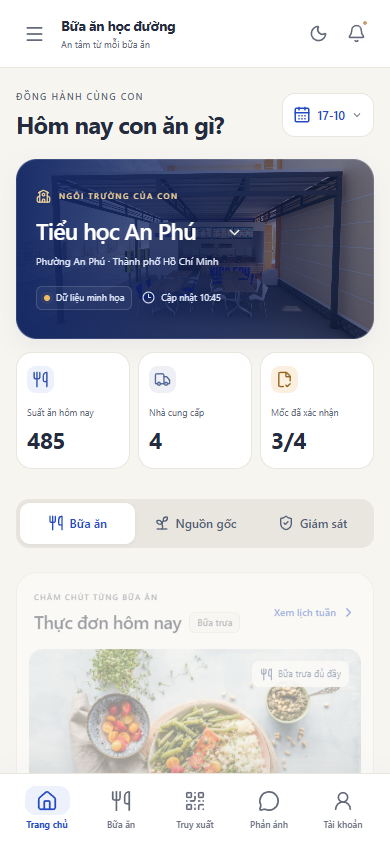
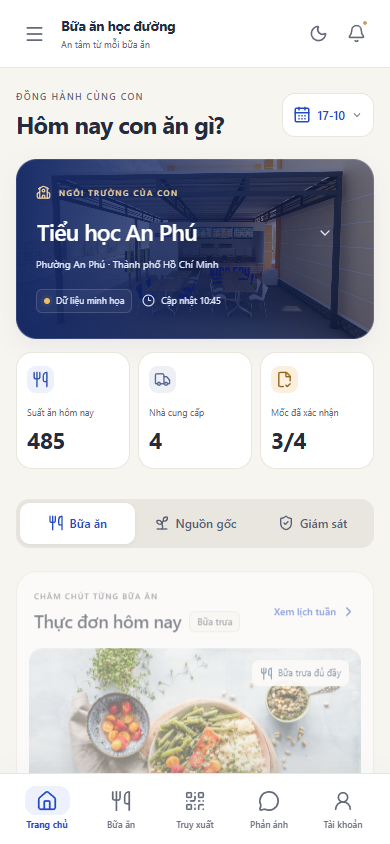
Initial commit: School Food Safety App

diff --git a/src/App.tsx b/src/App.tsx
@@ -5,7 +5,7 @@ import { QueryClient, QueryClientProvider, useMutation, useQuery, useQueryClient
 import { AnimatePresence, motion, useReducedMotion } from 'motion/react'
 import { Activity, ArrowRight, Bell, CalendarDays, Check, CheckCheck, ChevronDown, ChevronLeft, ChevronRight, CircleHelp, Clock3, CookingPot, FileCheck2, Heart, House, Leaf, LogIn, Menu, MessageCircle, MessageSquareText, Moon, QrCode, School as SchoolIcon, Search, Send, ShieldCheck, Sprout, Sun, Truck, Users, Utensils, X } from 'lucide-react'
 import type { LucideIcon } from 'lucide-react'
-import { useForm } from 'react-hook-form'
+import { Controller, useForm } from 'react-hook-form'
 import { zodResolver } from '@hookform/resolvers/zod'
 import { z } from 'zod'
 import { demoData, demo, schools as demoSchools } from './lib/data'
@@ -14,6 +14,7 @@ import { useUI } from './lib/store'
 import './App.css'
 import CanteenGallery from './CanteenGallery'
 import MobileNavigation from './MobileNavigation'
+import Select from './components/ui/Select'
 import CountUp from './components/react-bits/CountUp'
 import SpotlightCard from './components/react-bits/SpotlightCard'
 import ClickSpark from './components/react-bits/ClickSpark'
@@ -38,9 +39,9 @@ const feedbackSchema = z.object({kind:z.enum(['MENU_SUGGESTION','MEAL_QUALITY_RE
 type FeedbackInput = z.infer<typeof feedbackSchema>
 function FeedbackForm({ school, kind, close }: {school:School;kind:string;close:()=>void}) {
   const cache = useQueryClient(); const [result,setResult] = useState<Feedback | null>(null)
-  const {register,handleSubmit,formState:{errors}} = useForm<FeedbackInput>({resolver:zodResolver(feedbackSchema),defaultValues:{kind:kind === 'MENU_SUGGESTION' ? 'MENU_SUGGESTION':'MEAL_QUALITY_REPORT',content:''}})
+  const {register,control,handleSubmit,formState:{errors}} = useForm<FeedbackInput>({resolver:zodResolver(feedbackSchema),defaultValues:{kind:kind === 'MENU_SUGGESTION' ? 'MENU_SUGGESTION':'MEAL_QUALITY_REPORT',content:''}})
   const send = useMutation({mutationFn:(values:FeedbackInput)=>demoData.sendFeedback({...values,schoolId:school.id}),onSuccess:item=>{setResult(item);void cache.invalidateQueries({queryKey:['feedback']})}})
-  return <Dialog title={result ? 'Đã ghi nhận ý kiến của bạn' : 'Cùng xây dựng bữa ăn tốt hơn'} close={close}>{result ? <div className="success-state"><span className="success-icon"><Check/></span><p>{demo ? 'Đã lưu vào trình duyệt DEMO, chưa gửi đến nhà trường.' : 'Nhà trường đã tiếp nhận hồ sơ của bạn.'}</p><div className="case-code">{result.id}</div><p className="muted">Bạn có thể xem lại tại Phản ánh & góp ý.</p><button className="primary" onClick={close}>Hoàn tất</button></div> : <form onSubmit={handleSubmit(values=>send.mutate(values))}><p className="form-context"><SchoolIcon size={17}/>{school.name}</p><label>Loại ý kiến<select {...register('kind')}><option value="MEAL_QUALITY_REPORT">Phản ánh chất lượng bữa ăn</option><option value="MENU_SUGGESTION">Góp ý thực đơn</option></select></label><label>Nội dung<textarea rows={5} placeholder="Chia sẻ cụ thể để nhà trường có thể hỗ trợ bạn…" {...register('content')}/></label>{errors.content && <p className="error">{errors.content.message}</p>}<div className="privacy"><ShieldCheck size={18}/><p>Ý kiến được tiếp nhận riêng tư. Không nhập thông tin cá nhân của học sinh vào nội dung.</p></div>{demo && <p className="demo-note">DEMO · Hồ sơ chỉ lưu trên trình duyệt này, không gửi thông báo thật.</p>}{send.error && <p role="alert" className="error">{send.error.message}</p>}<button className="primary full" disabled={send.isPending}><Send size={16}/>{send.isPending ? 'Đang gửi…' : 'Gửi ý kiến'}</button></form>}</Dialog>
+  return <Dialog title={result ? 'Đã ghi nhận ý kiến của bạn' : 'Cùng xây dựng bữa ăn tốt hơn'} close={close}>{result ? <div className="success-state"><span className="success-icon"><Check/></span><p>{demo ? 'Đã lưu vào trình duyệt DEMO, chưa gửi đến nhà trường.' : 'Nhà trường đã tiếp nhận hồ sơ của bạn.'}</p><div className="case-code">{result.id}</div><p className="muted">Bạn có thể xem lại tại Phản ánh & góp ý.</p><button className="primary" onClick={close}>Hoàn tất</button></div> : <form onSubmit={handleSubmit(values=>send.mutate(values))}><p className="form-context"><SchoolIcon size={17}/>{school.name}</p><div className="select-field"><span>Loại ý kiến</span><Controller control={control} name="kind" render={({field})=><Select label="Loại ý kiến" value={field.value} onValueChange={field.onChange} onBlur={field.onBlur} options={[{value:'MEAL_QUALITY_REPORT',label:'Phản ánh chất lượng bữa ăn'},{value:'MENU_SUGGESTION',label:'Góp ý thực đơn'}]}/>}/></div><label>Nội dung<textarea rows={5} placeholder="Chia sẻ cụ thể để nhà trường có thể hỗ trợ bạn…" {...register('content')}/></label>{errors.content && <p className="error">{errors.content.message}</p>}<div className="privacy"><ShieldCheck size={18}/><p>Ý kiến được tiếp nhận riêng tư. Không nhập thông tin cá nhân của học sinh vào nội dung.</p></div>{demo && <p className="demo-note">DEMO · Hồ sơ chỉ lưu trên trình duyệt này, không gửi thông báo thật.</p>}{send.error && <p role="alert" className="error">{send.error.message}</p>}<button className="primary full" disabled={send.isPending}><Send size={16}/>{send.isPending ? 'Đang gửi…' : 'Gửi ý kiến'}</button></form>}</Dialog>
 }
 function Login({close}:{close:()=>void}) {
  const setRole=useUI(s=>s.setRole);const navigate=useNavigate();const cache=useQueryClient()
@@ -64,11 +65,11 @@ function Shell() {
  <aside className={`sidebar ${drawer?'open':''}`}><NavLink to="/" className="brand"><span className="brand-symbol"><Sprout size={26}/></span><span>Bữa ăn học đường<small>AN TÂM TỪ MỖI BỮA ĂN</small></span></NavLink><div className="workspace"><span className="workspace-icon"><Users size={19}/></span><div>{role==='parent'?'Không gian phụ huynh':roleLabels[role]}<small>{role==='parent'?'Đồng hành cùng nhà trường':'Không gian làm việc DEMO'}</small></div><span className="small-dot"/></div><p className="nav-label">KHÁM PHÁ</p><nav>{nav.map(item=><NavLink end={item.path==='/'} to={item.path} key={item.path}><item.icon size={19}/><span>{item.label}</span>{item.path==='/phan-anh'&&<span className="nav-dot"/>}</NavLink>)}</nav><div className="sidebar-bottom"><div className="trust-note"><span><ShieldCheck size={23}/></span><strong>Minh bạch mỗi ngày.<br/>An tâm mỗi bữa ăn.</strong><p>Kết nối gia đình, nhà trường<br/>và những bữa ăn của con.</p><button onClick={()=>setModal('about')}>Tìm hiểu hệ thống <ArrowRight size={14}/></button></div><button className="sidebar-link" onClick={()=>setModal('help')}><CircleHelp size={18}/>Trung tâm hỗ trợ<ArrowRight size={15}/></button><button className="profile" onClick={()=>setModal('login')}><span className="avatar">PH</span><span>{roleLabels[role]}<small>Chuyển không gian DEMO</small></span><LogIn size={17}/></button></div></aside>
  <div className="main-wrap"><header className="topbar"><div className="breadcrumb"><button className="icon-button mobile-menu" aria-label="Mở menu" onClick={()=>setDrawer(true)}><Menu/></button><span>{role==='parent'?'Không gian phụ huynh':roleLabels[role]}</span><ChevronRight size={13}/><strong>{current.label}</strong></div><div className="mobile-app-brand"><span><Sprout size={21}/></span><div>Bữa ăn học đường<small>{role==='parent'?'An tâm từ mỗi bữa ăn':roleLabels[role]}</small></div></div><div className="top-actions">{demo&&<span className="demo-pill">BẢN DEMO</span>}<button aria-label="Tìm kiếm trường" className="icon-button" onClick={()=>setModal('search')}><Search size={19}/></button><button className="icon-button" aria-label={dark?'Bật giao diện sáng':'Bật giao diện tối'} onClick={()=>setDark(!dark)}>{dark?<Sun size={19}/>:<Moon size={19}/>}</button><button className="icon-button notification-button" aria-label="Thông báo" onClick={()=>setModal('notifications')}><Bell size={19}/><i/></button><span className="top-divider"/><button className="avatar small" aria-label="Chuyển không gian làm việc" onClick={()=>setModal('login')}>PH</button></div></header>
  <main id="main"><div className="mobile-greeting"><div><span>{location.pathname==='/'?(role==='parent'?'ĐỒNG HÀNH CÙNG CON':roleLabels[role].toUpperCase()):'BỮA ĂN HỌC ĐƯỜNG'}</span><h2>{location.pathname==='/'?(role==='parent'?'Hôm nay con ăn gì?':'Một ngày thật chu toàn.'):current.label}</h2></div><button className="mobile-date-button" aria-label="Chọn ngày theo dõi" onClick={()=>setModal('date')}><CalendarDays size={18}/><span>{new Date(date+'T12:00:00').toLocaleDateString('vi-VN',{day:'2-digit',month:'2-digit'})}</span><ChevronDown size={12}/></button></div><div className="page-heading"><div><div className="eyebrow"><span/> GẮN KẾT YÊU THƯƠNG, TRỌN VẸN AN TÂM</div><h1>{location.pathname==='/'?(role==='parent'?'Bữa ăn của con, an tâm của bạn.':role==='school_board'?'Chăm chút bữa ăn, mỗi ngày.':role==='central_kitchen'?'Từ căn bếp, gửi trọn an tâm.':'Một góc nhìn, toàn địa bàn.'):current.label}</h1><p>{role!=='parent'?'Theo dõi, phối hợp và quản lý hoạt động bữa ăn trong không gian minh họa.':location.pathname==='/'?'Cùng nhà trường chăm chút từng bữa ăn, đồng hành cùng con khôn lớn.':'Thông tin minh bạch, cập nhật từ nhà trường và đơn vị phụ trách.'}</p></div><button className="outline date-display" onClick={()=>setModal('date')}><CalendarDays size={16}/>{new Date(`${date}T12:00:00`).toLocaleDateString('vi-VN',{day:'2-digit',month:'2-digit',year:'numeric'})}<ChevronDown size={14}/></button></div>
- <SpotlightCard className="school-hero" spotlightColor="#e4bc70" intensity={0.3} spotlightSize={300} borderGlow={0.35} proximity={0} flare={false} theme="dark"><div className="hero-content"><span className="hero-eyebrow"><SchoolIcon size={15}/> NGÔI TRƯỜNG CỦA CON</span><div className="school-picker"><select aria-label="Chọn trường" value={school.id} onChange={e=>setSchool(e.target.value)}>{(schoolQuery.data ?? (demo ? demoSchools : [])).map(s=><option key={s.id} value={s.id}>{s.name}</option>)}</select><ChevronDown size={21}/></div><p className="hero-address">{school.address}</p><div className="hero-bottom"><span><span className="live-dot"/>{demo?'Dữ liệu minh họa':'Thông tin công khai'}</span><span className="hero-separator"/><span><Clock3 size={13}/> Cập nhật {data?.updatedAt ?? '—'}</span></div></div><div className="hero-art" aria-hidden="true"><div className="orbit orbit-one"/><div className="orbit orbit-two"/><div className="plate"><div className="plate-inner"><Sprout size={59} strokeWidth={1.25}/></div></div><Utensils className="hero-utensils" size={80} strokeWidth={1}/><Leaf className="leaf-one" size={42} strokeWidth={1}/><Leaf className="leaf-two" size={24} strokeWidth={1}/><span className="hero-caption">Nuôi dưỡng hôm nay<br/><strong>Vững bước ngày mai.</strong></span></div></SpotlightCard>
+ <SpotlightCard className="school-hero" spotlightColor="#e4bc70" intensity={0.3} spotlightSize={300} borderGlow={0.35} proximity={0} flare={false} theme="dark"><div className="hero-content"><span className="hero-eyebrow"><SchoolIcon size={15}/> NGÔI TRƯỜNG CỦA CON</span><div className="school-picker"><Select label="Chọn trường" variant="hero" value={school.id} onValueChange={setSchool} options={(schoolQuery.data??demoSchools).map(s=>({value:s.id,label:s.name,description:s.address}))}/></div><p className="hero-address">{school.address}</p><div className="hero-bottom"><span><span className="live-dot"/>{demo?'Dữ liệu minh họa':'Thông tin công khai'}</span><span className="hero-separator"/><span><Clock3 size={13}/> Cập nhật {data?.updatedAt ?? '—'}</span></div></div><div className="hero-art" aria-hidden="true"><div className="orbit orbit-one"/><div className="orbit orbit-two"/><div className="plate"><div className="plate-inner"><Sprout size={59} strokeWidth={1.25}/></div></div><Utensils className="hero-utensils" size={80} strokeWidth={1}/><Leaf className="leaf-one" size={42} strokeWidth={1}/><Leaf className="leaf-two" size={24} strokeWidth={1}/><span className="hero-caption">Nuôi dưỡng hôm nay<br/><strong>Vững bước ngày mai.</strong></span></div></SpotlightCard>
  {role!=='parent'?<Suspense fallback={<div className="loading-grid"><div className="skeleton"/></div>}><AdminPanel school={school}/></Suspense>:schoolQuery.isError||query.isError?<div className="error-panel" role="alert"><strong>Chưa tải được thông tin</strong><p>{(schoolQuery.error??query.error)?.message}</p><button className="outline" onClick={()=>{void schoolQuery.refetch();void query.refetch()}}>Thử lại</button></div>:<>
  <ClickSpark className="rb-stats-sparks" sparkColor={['#5479df','#d89a30']} sparkSize={5} sparkRadius={18} sparkCount={6} duration={300} sparkWidth={1.4} disabled={!!reducedMotion}><div className="stats-grid">{[{icon:Utensils,value:data?.servings,label:'Suất ăn hôm nay',note:'Theo kế hoạch nhà trường',color:'green'},{icon:Truck,value:data?.suppliers,label:'Nhà cung cấp',note:'Liên kết trong bữa ăn',color:'blue'},{icon:FileCheck2,value:data?`${data.events.filter(e=>e.confirmed).length}/${data.events.length}`:undefined,label:'Mốc đã xác nhận',note:'Theo quy trình cung cấp',color:'orange'}].map((s,i)=><button className="stat" key={s.label} onClick={()=>navigate(['/bua-an','/nguon-goc','/giam-sat'][i]!)}><span className={`stat-icon ${s.color}`}><s.icon size={23}/></span><div><span className="stat-label">{s.label}</span><div className="stat-value">{typeof s.value==='number'?<CountUp to={s.value} duration={0.65} trigger="load"/>:s.value??<span className="skeleton stat-skeleton"/>}<span className="stat-note">{s.note}</span></div></div><ArrowRight size={16} className="stat-arrow"/></button>)}</div></ClickSpark>
  <div className="section-toolbar"><div className="segmented">{[{path:'/bua-an',label:'Bữa ăn',icon:Utensils},{path:'/nguon-goc',label:'Nguồn gốc',icon:Sprout},{path:'/giam-sat',label:'Giám sát',icon:ShieldCheck}].map(t=><NavLink to={t.path} key={t.path} className={({isActive})=>(isActive||(location.pathname==='/'&&t.path==='/bua-an'))?'selected':''}><t.icon size={16}/>{t.label}</NavLink>)}</div><span className="updated"><span/> {demo?'Dữ liệu minh họa · Không dùng thay kết quả chính thức':'Được cập nhật bởi nhà trường'}</span></div>
- {query.isLoading||!data?<div className="loading-grid" aria-label="Đang tải dữ liệu"><div className="skeleton"/><div className="skeleton"/></div>:<AnimatePresence mode="wait"><motion.div key={location.pathname} initial={reducedMotion?false:{opacity:0,y:7}} animate={{opacity:1,y:0}} exit={{opacity:0}} transition={{duration:reducedMotion?0:.18}}>
+ {query.isLoading||!data?<div className="loading-grid" role="status" aria-label="Đang tải dữ liệu"><div className="skeleton"/><div className="skeleton"/></div>:<AnimatePresence mode="wait"><motion.div key={location.pathname} initial={reducedMotion?false:{opacity:0,y:7}} animate={{opacity:1,y:0}} exit={{opacity:0}} transition={{duration:reducedMotion?0:.18}}>
  {(location.pathname==='/'||location.pathname==='/bua-an')&&<>{location.pathname==='/bua-an'&&<section className="week-picker"><button className="icon-button" aria-label="Tuần trước" onClick={()=>changeWeek(-7)}><ChevronLeft/></button>{week.map((d,i)=><button className={d===date?'chosen':''} onClick={()=>setDate(d)} key={d}><small>{i===6?'CN':`Thứ ${i+2}`}</small><strong>{d.slice(8)}</strong></button>)}<button className="icon-button" aria-label="Tuần sau" onClick={()=>changeWeek(7)}><ChevronRight/></button></section>}
  <div className="content-grid"><section className="card meal-card"><div className="card-header"><div><div className="section-kicker">CHĂM CHÚT TỪNG BỮA ĂN</div><h2>Thực đơn hôm nay <span className="meal-pill">Bữa trưa</span></h2></div><button className="text-button" onClick={()=>location.pathname==='/bua-an'?setModal('date'):navigate('/bua-an')}>Xem lịch tuần <ChevronRight size={15}/></button></div><button className="meal-photo" aria-label="Xem ảnh minh họa bữa ăn" onClick={()=>setModal('photo')}><img src={data.photo} alt="Ảnh minh họa món ăn với rau củ tươi"/><span className="photo-demo"><span/>Ảnh minh họa · Không phải ảnh báo cáo thực tế</span><span className="photo-tag"><Utensils size={13}/> Bữa trưa đủ đầy</span></button><div className="meal-body"><div className="meal-summary"><div><span className="muted small-text">THỰC ĐƠN DỰ KIẾN</span><h3>Ngon miệng, trọn yêu thương</h3></div><Badge amber>Đã báo cáo</Badge></div><div className="dish-list">{data.dishes.map((dish,i)=><div key={dish}><span className={`dish-dot dish-${i}`}/>{dish}</div>)}</div><div className="meal-meta"><span><Clock3 size={15}/>Phục vụ dự kiến <strong>11:00</strong></span><span><CookingPot size={15}/>{school.mode==='CENTRAL_KITCHEN'?'Bếp trung tâm':'Nấu tại trường'}</span></div><div className="meal-footer"><span><ShieldCheck size={16}/>Dinh dưỡng chưa được xác minh</span><button className="text-button" onClick={()=>setModal('meal')}>Chi tiết bữa ăn <ArrowRight size={15}/></button></div></div></section>
  <section className="card journey-card"><div className="card-header"><div><div className="section-kicker">MINH BẠCH TỪ BẾP ĐẾN TRƯỜNG</div><h2>Hành trình bữa ăn</h2></div><span className="round-icon"><Activity size={19}/></span></div><div className="journey-summary"><span className="live-dot"/><div><strong>{data.events.at(-1)?.label ?? 'Đang chuẩn bị'}</strong><p>{!data.events.length?'Chưa có mốc được ghi nhận':data.events.at(-1)?.confirmed?'Mốc gần nhất đã xác nhận':'Đã báo cáo · Chờ BGH xác nhận'}</p></div><Clock3 size={20}/></div><Timeline data={data} compact/><div className="journey-footer"><ShieldCheck size={17}/><p>Mỗi bước ghi nhận, thêm một phần an tâm.<br/><span>Trạng thái quy trình không thay kết luận ATTP.</span></p></div><button className="wide-link" onClick={()=>navigate('/giam-sat')}>Xem toàn bộ nhật ký <ArrowRight size={16}/></button></section></div>

diff --git a/src/Admin.tsx b/src/Admin.tsx
@@ -9,6 +9,7 @@ import { useUI } from './lib/store'
 import type { ViewRole } from './lib/store'
 import type { School } from './lib/data'
 import './Admin.css'
+import Select from './components/ui/Select'
 import CountUp from './components/react-bits/CountUp'
 
 type LocalEvent={status:string;time:string;photos:string[];confirmed:boolean;note:string}
@@ -34,7 +35,7 @@ export default function AdminPanel({school}:{school:School}){
  const advance=(note:string)=>{if(!canAdvance||!nextStatus)return;if(!photos.length){setError('Chọn ít nhất một ảnh minh họa riêng cho mốc này.');return}if(photos.some(p=>selected.events.some(e=>e.photos.includes(p)))){setError('Ảnh này đã dùng cho mốc khác. Vui lòng chọn ảnh khác.');return}const next={...selected,status:nextStatus,events:[...selected.events,{status:nextStatus,time:new Date().toLocaleTimeString('vi-VN',{hour:'2-digit',minute:'2-digit'}),photos,confirmed:false,note}]};if(saveMeal(next)){setDialog(null);setPhotos([]);setNotice('Đã ghi nhận mốc vận hành trên trình duyệt DEMO.')}}
  const overview=!['/thuc-don','/ho-so','/van-hanh','/phan-anh','/bao-cao'].includes(path)
  return <div className="admin-area"><div className="admin-context"><span><span className="live-dot"/>KHÔNG GIAN {roleNames[role].toUpperCase()}</span><small>Frontend DEMO · Thao tác chỉ lưu trên trình duyệt</small></div>{notice&&<div className="local-toast" role="status"><Check size={16}/>{notice}<button aria-label="Đóng thông báo" onClick={()=>setNotice('')}><X size={15}/></button></div>}
- {(overview||path==='/bao-cao')&&<><div className="admin-stats">{[{icon:SchoolIcon,value:scoped.length,label:'Trường trong chế độ xem'},{icon:Utensils,value:scoped.reduce((n,m)=>n+m.servings,0),label:'Suất ăn dự kiến'},{icon:Clock3,value:scoped.filter(m=>m.status!=='READY').length,label:'Bữa ăn đang triển khai'},{icon:Users,value:feedback.data?.length??0,label:'Ý kiến đã lưu trên máy'}].map(k=><div className="card admin-stat" key={k.label}><k.icon size={21}/><strong><CountUp to={k.value} duration={0.65}/></strong><span>{k.label}</span></div>)}</div><section className="card"><div className="card-header"><div><div className="section-kicker">ĐỒNG HÀNH CÙNG CÁC NHÀ TRƯỜNG</div><h2>{role==='school_board'?'Hoạt động trường hôm nay':'Tổng quan cung cấp suất ăn'}</h2></div><button className="outline" onClick={exportReport}><ArrowDownToLine size={16}/>Xuất CSV</button></div><div className="table-filters"><label className="table-search"><Search size={16}/><input aria-label="Tìm trường trong danh sách" placeholder="Tìm trường học…" value={search} onChange={e=>setSearch(e.target.value)}/></label><select aria-label="Lọc trạng thái suất ăn" value={status} onChange={e=>setStatus(e.target.value)}><option value="all">Tất cả trạng thái</option>{Object.entries(statusNames).map(([key,name])=><option value={key} key={key}>{name}</option>)}</select></div><div className="table-scroll"><table><thead><tr><th>Trường học</th><th>Hình thức</th><th>Số suất</th><th>Trạng thái</th><th>Chi tiết</th></tr></thead><tbody>{filtered.map(m=><tr key={m.schoolId}><td><strong>{schools.find(s=>s.id===m.schoolId)!.name}</strong><small>{date}</small></td><td>{schools.find(s=>s.id===m.schoolId)!.mode==='ON_SITE'?'Nấu tại trường':'Bếp trung tâm'}</td><td>{m.servings}</td><td><span className="admin-status">{statusNames[m.status]}</span></td><td><button className="icon-button" aria-label={`Xem ${schools.find(s=>s.id===m.schoolId)!.name}`} onClick={()=>{useUI.getState().setSchool(m.schoolId);setDialog('overview-detail')}}><ArrowRight size={17}/></button></td></tr>)}</tbody></table>{!filtered.length&&<div className="empty-state"><Search/><h3>Không có kết quả phù hợp</h3><p>Thử thay đổi từ khóa hoặc bộ lọc trạng thái.</p></div>}</div><div className="table-note"><AlertCircle size={15}/>Các chỉ số tính từ dữ liệu DEMO đang có trên trình duyệt.</div></section><div className="admin-info-grid"><section className="card admin-note"><FileCheck2 size={25}/><h3>Hồ sơ rõ ràng, thông tin minh bạch</h3><p>Giấy tờ được ghi nhận riêng với trạng thái xác minh. Bản frontend không đánh giá giá trị pháp lý của hồ sơ.</p></section><section className="card admin-note"><Truck size={25}/><h3>Đúng tiến trình từng bữa ăn</h3><p>Luồng nấu tại trường và bếp trung tâm được tách riêng. Mỗi mốc có ảnh và thông tin người báo cáo.</p></section></div></>}
+ {(overview||path==='/bao-cao')&&<><div className="admin-stats">{[{icon:SchoolIcon,value:scoped.length,label:'Trường trong chế độ xem'},{icon:Utensils,value:scoped.reduce((n,m)=>n+m.servings,0),label:'Suất ăn dự kiến'},{icon:Clock3,value:scoped.filter(m=>m.status!=='READY').length,label:'Bữa ăn đang triển khai'},{icon:Users,value:feedback.data?.length??0,label:'Ý kiến đã lưu trên máy'}].map(k=><div className="card admin-stat" key={k.label}><k.icon size={21}/><strong><CountUp to={k.value} duration={0.65}/></strong><span>{k.label}</span></div>)}</div><section className="card"><div className="card-header"><div><div className="section-kicker">ĐỒNG HÀNH CÙNG CÁC NHÀ TRƯỜNG</div><h2>{role==='school_board'?'Hoạt động trường hôm nay':'Tổng quan cung cấp suất ăn'}</h2></div><button className="outline" onClick={exportReport}><ArrowDownToLine size={16}/>Xuất CSV</button></div><div className="table-filters"><label className="table-search"><Search size={16}/><input aria-label="Tìm trường trong danh sách" placeholder="Tìm trường học…" value={search} onChange={e=>setSearch(e.target.value)}/></label><Select label="Lọc trạng thái suất ăn" value={status} onValueChange={setStatus} options={[{value:'all',label:'Tất cả trạng thái'},...Object.entries(statusNames).map(([value,label])=>({value,label}))]}/></div><div className="table-scroll"><table><thead><tr><th>Trường học</th><th>Hình thức</th><th>Số suất</th><th>Trạng thái</th><th>Chi tiết</th></tr></thead><tbody>{filtered.map(m=><tr key={m.schoolId}><td><strong>{schools.find(s=>s.id===m.schoolId)!.name}</strong><small>{date}</small></td><td>{schools.find(s=>s.id===m.schoolId)!.mode==='ON_SITE'?'Nấu tại trường':'Bếp trung tâm'}</td><td>{m.servings}</td><td><span className="admin-status">{statusNames[m.status]}</span></td><td><button className="icon-button" aria-label={`Xem ${schools.find(s=>s.id===m.schoolId)!.name}`} onClick={()=>{useUI.getState().setSchool(m.schoolId);setDialog('overview-detail')}}><ArrowRight size={17}/></button></td></tr>)}</tbody></table>{!filtered.length&&<div className="empty-state"><Search/><h3>Không có kết quả phù hợp</h3><p>Thử thay đổi từ khóa hoặc bộ lọc trạng thái.</p></div>}</div><div className="table-note"><AlertCircle size={15}/>Các chỉ số tính từ dữ liệu DEMO đang có trên trình duyệt.</div></section><div className="admin-info-grid"><section className="card admin-note"><FileCheck2 size={25}/><h3>Hồ sơ rõ ràng, thông tin minh bạch</h3><p>Giấy tờ được ghi nhận riêng với trạng thái xác minh. Bản frontend không đánh giá giá trị pháp lý của hồ sơ.</p></section><section className="card admin-note"><Truck size={25}/><h3>Đúng tiến trình từng bữa ăn</h3><p>Luồng nấu tại trường và bếp trung tâm được tách riêng. Mỗi mốc có ảnh và thông tin người báo cáo.</p></section></div></>}
  {path==='/van-hanh'&&<section className="card"><div className="card-header"><div><div className="section-kicker">{school.mode==='ON_SITE'?'NẤU TẠI TRƯỜNG':'NẤU TẠI BẾP TRUNG TÂM'}</div><h2>Tiến trình suất ăn · {school.name}</h2></div>{canAdvance&&<button className="primary" onClick={()=>{setError('');setPhotos([]);setDialog('event')}}><Plus size={16}/>{nextStatus==='DISPATCHED'?'Xuất bếp + ảnh':statusNames[nextStatus!]}</button>}</div><div className="operation-overview"><div><span>Số suất dự kiến</span><strong>{selected.servings}</strong></div><div><span>Ngày phục vụ</span><strong>{new Date(date+'T12:00:00').toLocaleDateString('vi-VN')}</strong></div><div><span>Trạng thái hiện tại</span><strong>{statusNames[selected.status]}</strong></div></div><div className="admin-timeline">{flow.slice(1).map(s=>{const event=selected.events.find(e=>e.status===s);return <div key={s} className={event?'recorded':''}><span className="operation-node">{event?<Check size={18}/>:<Clock3 size={18}/>}</span><div><h3>{statusNames[s]}</h3><p>{event?`${event.time} · Đã báo cáo (DEMO)`:'Chưa cập nhật'}</p>{event&&<><p>{event.note}</p><div className="event-photos">{event.photos.map((p,i)=><img key={i} src={p} alt={`Ảnh minh họa mốc ${statusNames[s]} ${i+1}`}/>)}</div><small>{event.confirmed?'Xác nhận minh họa của BGH':'Chờ xác nhận minh họa'}</small>{role==='school_board'&&!event.confirmed&&<button className="outline" onClick={()=>{if(saveMeal({...selected,events:selected.events.map(e=>e.status===s?{...e,confirmed:true}:e)}))setNotice('Đã mô phỏng xác nhận của BGH. Đây không phải xác nhận thật.')}}>Mô phỏng BGH xác nhận</button>}</>}</div></div>})}</div>{!canAdvance&&nextStatus&&<div className="table-note"><AlertCircle size={16}/>{role==='central_kitchen'?'Sau xuất bếp, các mốc đến trường/ra món/sẵn sàng thuộc chế độ xem BGH.':nextStatus==='DISPATCHED'?'Mốc xuất bếp được ghi nhận từ chế độ xem Bếp trung tâm.':'Chế độ giám sát chỉ xem tiến trình, không sửa dữ liệu.'}</div>}</section>}
  {path==='/thuc-don'&&<section className="card"><div className="card-header"><div><div className="section-kicker">CHĂM CHÚT THỰC ĐƠN MỖI NGÀY</div><h2>Thực đơn · {new Date(date+'T12:00:00').toLocaleDateString('vi-VN')}</h2></div>{role!=='culture_social_office'&&<button className="primary" onClick={()=>setDialog('menu')}><Plus size={16}/>Chỉnh bản nháp</button>}</div><div className="admin-menu-photo"><img src="/meal-demo.jpg" alt="Ảnh món ăn minh họa"/><span>Ảnh minh họa · Bản nháp DEMO</span></div><div className="admin-dishes">{selected.dishes.map((d,i)=><div key={i}><span>{String(i+1).padStart(2,'0')}</span><strong>{d}</strong><small>Định lượng chưa xác minh</small></div>)}</div><div className="table-note"><FileCheck2 size={16}/>Bản nháp được lưu cục bộ. Không xuất bản thông tin đến phụ huynh thật.</div></section>}
  {path==='/ho-so'&&<section className="card"><div className="card-header"><div><div className="section-kicker">THÔNG TIN VÀ ĐIỀU KIỆN CƠ SỞ</div><h2>Hồ sơ & giấy tờ</h2></div>{role!=='culture_social_office'&&<button className="primary" onClick={()=>{setError('');setPendingFile('');setDialog('document')}}><Upload size={16}/>Thêm giấy tờ</button>}</div>{!documents.length?<div className="empty-state"><FileCheck2 size={40}/><h3>Chưa có hồ sơ được thêm</h3><p>Thêm thông tin giấy tờ để xem trải nghiệm quản lý. File chỉ được đọc tên trên thiết bị, không tải lên máy chủ.</p></div>:<div className="source-list">{documents.map(d=><button key={d.id} onClick={()=>setDialog(`doc-${d.id}`)}><FileCheck2 size={24}/><div><strong>{d.name}</strong><p>{d.subject} · {d.filename}</p></div><span className="admin-status">{d.status}</span></button>)}</div>}<div className="table-note">Hồ sơ thêm vào không tự động trở thành hồ sơ được xác minh.</div></section>}

diff --git a/src/components/ui/Select.tsx b/src/components/ui/Select.tsx
@@ -1,0 +1,40 @@
+import { useEffect, useId, useLayoutEffect, useRef, useState } from 'react'
+import type { CSSProperties, KeyboardEvent } from 'react'
+import { Check, ChevronDown } from 'lucide-react'
+import './Select.css'
+export type SelectOption = { value: string; label: string; description?: string; disabled?: boolean }
+type Props = { label: string; value: string; options: SelectOption[]; onValueChange: (value: string) => void; onBlur?: () => void; disabled?: boolean; variant?: 'default' | 'hero'; className?: string; name?: string }
+export default function Select({ label, value, options, onValueChange, onBlur, disabled=false, variant='default', className='', name }: Props) {
+ const uid=useId();const root=useRef<HTMLDivElement>(null);const trigger=useRef<HTMLButtonElement>(null);const panel=useRef<HTMLDivElement>(null)
+ const [open,setOpen]=useState(false);const [active,setActive]=useState(0);const [position,setPosition]=useState<CSSProperties>({});const typed=useRef('');const typedAt=useRef(0)
+ const supportsPopover=typeof HTMLElement!=='undefined'&&'showPopover' in HTMLElement.prototype
+ const selected=options.find(option=>option.value===value)
+ const close=(restore=false)=>{setOpen(false);if(restore)trigger.current?.focus({preventScroll:true})}
+ const choose=(index:number)=>{const option=options[index];if(!option||option.disabled)return;onValueChange(option.value);close(true)}
+ const show=()=>{if(disabled||!options.length)return;setActive(Math.max(0,options.findIndex(option=>option.value===value&&!option.disabled)));setOpen(true)}
+ useLayoutEffect(()=>{
+  if(!open||!panel.current||!trigger.current)return
+  const popup=panel.current
+  const place=()=>{const rect=trigger.current!.getBoundingClientRect();const width=Math.min(Math.max(rect.width,variant==='hero'?300:260),window.innerWidth-24);const below=window.innerHeight-rect.bottom-18;const above=rect.top-18;const height=Math.min(popup.scrollHeight,340);const flip=below<Math.min(height,180)&&above>below;setPosition({left:Math.max(12,Math.min(rect.left,window.innerWidth-width-12)),top:flip?undefined:rect.bottom+7,bottom:flip?window.innerHeight-rect.top+7:undefined,width,maxHeight:Math.max(90,Math.min(340,flip?above:below))})}
+  if(supportsPopover&&!popup.matches(':popover-open'))popup.showPopover()
+  place();window.addEventListener('resize',place);window.addEventListener('scroll',place,true)
+  return()=>{window.removeEventListener('resize',place);window.removeEventListener('scroll',place,true);if(supportsPopover&&popup.matches(':popover-open'))popup.hidePopover()}
+ },[open,supportsPopover,variant])
+ useEffect(()=>{if(!open)return;const outside=(e:PointerEvent)=>{if(!root.current?.contains(e.target as Node))close()};document.addEventListener('pointerdown',outside);return()=>document.removeEventListener('pointerdown',outside)},[open])
+ useEffect(()=>{if(open)panel.current?.querySelector<HTMLElement>(`[data-option-index="${active}"]`)?.scrollIntoView({block:'nearest'})},[active,open])
+ const onKeyDown=(event:KeyboardEvent<HTMLButtonElement>)=>{
+  if(event.key==='Tab'){close();return}
+  if(event.key==='Escape'&&open){event.preventDefault();event.stopPropagation();close(true);return}
+  if(event.key==='Enter'||event.key===' '){event.preventDefault();if(open)choose(active);else show();return}
+  const enabled=options.map((o,i)=>o.disabled?-1:i).filter(i=>i>=0)
+  if(!enabled.length)return
+  if(['ArrowDown','ArrowUp','Home','End'].includes(event.key)){event.preventDefault();if(!open){show();if(event.key==='Home')setActive(enabled[0]!);if(event.key==='End')setActive(enabled.at(-1)!);return}const current=enabled.indexOf(active);setActive(event.key==='Home'?enabled[0]!:event.key==='End'?enabled.at(-1)!:enabled[(current+(event.key==='ArrowDown'?1:-1)+enabled.length)%enabled.length]!);return}
+  if(event.key.length===1&&!event.ctrlKey&&!event.metaKey&&!event.altKey){event.preventDefault();const now=Date.now();typed.current=now-typedAt.current>650?event.key:typed.current+event.key;typedAt.current=now;const match=options.findIndex(o=>!o.disabled&&o.label.toLocaleLowerCase('vi').startsWith(typed.current.toLocaleLowerCase('vi')));if(match>=0){if(!open)show();setActive(match)}}
+ }
+ if(!supportsPopover)return <div className={`apple-select native-fallback ${variant} ${className}`}><select aria-label={label} value={value} disabled={disabled} name={name} onBlur={onBlur} onChange={e=>onValueChange(e.target.value)}>{options.map(o=><option key={o.value} value={o.value} disabled={o.disabled}>{o.label}</option>)}</select><ChevronDown size={16}/></div>
+ return <div ref={root} className={`apple-select ${variant} ${className}`}>
+  {name&&<input type="hidden" name={name} value={value}/>}
+  <button ref={trigger} className="apple-select-trigger" type="button" role="combobox" aria-label={label} aria-expanded={open} aria-haspopup="listbox" aria-controls={`${uid}-options`} aria-activedescendant={open?`${uid}-option-${active}`:undefined} disabled={disabled||!options.length} onKeyDown={onKeyDown} onBlur={e=>{onBlur?.();if(!root.current?.contains(e.relatedTarget))close()}} onClick={()=>open?close():show()}><span>{selected?.label??'Chọn một mục'}</span><ChevronDown size={16} className={open?'chevron-open':''}/></button>
+  {open&&<div ref={panel} popover="manual" className="apple-select-menu" role="listbox" id={`${uid}-options`} aria-label={label} style={position} onPointerDown={e=>e.preventDefault()}>{options.map((option,index)=><div role="option" aria-selected={option.value===value} aria-disabled={option.disabled||undefined} id={`${uid}-option-${index}`} data-option-index={index} key={option.value} className={`apple-select-option ${active===index?'is-active':''} ${option.disabled?'is-disabled':''}`} onPointerMove={()=>{if(!option.disabled)setActive(index)}} onClick={()=>choose(index)}><span><strong>{option.label}</strong>{option.description&&<small>{option.description}</small>}</span><span className="select-check">{option.value===value&&<Check size={17} strokeWidth={2.3}/>}</span></div>)}</div>}
+ </div>
+}

diff --git a/src/components/ui/Select.css b/src/components/ui/Select.css
@@ -1,0 +1,3 @@
+.apple-select{position:relative;min-width:0;max-width:100%;width:100%}.apple-select-trigger{display:flex;align-items:center;justify-content:space-between;gap:16px;width:100%;min-height:46px;padding:11px 14px;border:1px solid var(--border);border-radius:13px;background:var(--surface-alt);color:var(--text);text-align:left;font-size:13px;font-weight:500;line-height:1.5;transition:border-color .18s,box-shadow .18s,background .18s}.apple-select-trigger>span{min-width:0;overflow:hidden;text-overflow:ellipsis;white-space:nowrap}.apple-select-trigger>svg{color:var(--muted);transition:transform .18s}.apple-select-trigger[aria-expanded=true]{border-color:var(--primary);box-shadow:0 0 0 3px color-mix(in srgb,var(--primary) 10%,transparent)}.apple-select-trigger:disabled{cursor:default;opacity:.55}.apple-select-trigger>svg.chevron-open{transform:rotate(180deg)}.apple-select-menu{position:fixed;inset:auto;margin:0;padding:6px;border:1px solid color-mix(in srgb,var(--border) 80%,transparent);border-radius:16px;background:var(--surface);color:var(--text);box-shadow:0 12px 40px #14204c20,0 2px 7px #14204c08;overflow-y:auto;overscroll-behavior:contain;scrollbar-width:thin;z-index:100;animation:select-appear .15s ease-out}.apple-select-option{display:flex;align-items:center;justify-content:space-between;gap:15px;min-height:44px;border-radius:10px;padding:10px 12px;cursor:pointer;transition:background .12s,color .12s;font-size:13px;line-height:1.5}.apple-select-option strong{font-weight:450;display:block}.apple-select-option small{display:block;font-size:11px;font-weight:400;color:var(--muted);margin-top:3px}.apple-select-option.is-active{background:var(--green-soft);color:var(--primary)}.apple-select-option[aria-selected=true] strong{font-weight:600}.select-check{display:flex;width:18px;color:var(--primary);flex-shrink:0}.apple-select-option.is-disabled{opacity:.4;cursor:not-allowed}.apple-select.hero .apple-select-trigger{min-height:49px;padding:5px 10px;margin-left:-10px;background:transparent;border-color:transparent;color:white;border-radius:11px;font-size:29px;letter-spacing:-.6px;font-weight:600;gap:17px}.apple-select.hero .apple-select-trigger>svg{color:#dfe6ff}.apple-select.hero .apple-select-trigger:hover,.apple-select.hero .apple-select-trigger[aria-expanded=true]{background:#ffffff0d;border-color:#ffffff35;box-shadow:none}.school-picker .apple-select{width:auto;max-width:100%}.table-filters>.apple-select{width:210px;flex-shrink:0}.apple-select.native-fallback{display:flex;align-items:center}.apple-select.native-fallback select{appearance:none;border:1px solid var(--border);background:var(--surface-alt);color:var(--text);border-radius:13px;padding:12px 40px 12px 14px;width:100%;font:inherit}.native-fallback>svg{position:absolute;right:13px;pointer-events:none}.apple-select.hero.native-fallback select{background:transparent;border:0;color:white}.apple-select.hero.native-fallback option{background:var(--surface);color:var(--text)}@keyframes select-appear{from{opacity:0;transform:translateY(-3px)}to{opacity:1;transform:translateY(0)}}@media(max-width:760px){.apple-select-trigger{font-size:15px;min-height:48px;border-radius:14px}.apple-select.hero .apple-select-trigger{font-size:23px;letter-spacing:-.7px;min-height:44px;max-width:285px}.apple-select-menu{padding:7px;border-radius:18px;max-width:calc(100vw - 24px)}.apple-select-option{min-height:49px;padding:12px;font-size:14px;border-radius:11px}.apple-select-option small{font-size:11px}.table-filters>.apple-select{width:100%}}@media(prefers-reduced-motion:reduce){.apple-select-menu{animation:none}.apple-select-trigger,.apple-select-trigger>svg,.apple-select-option{transition:none}}
+.select-field{display:flex;flex-direction:column;gap:8px;font-size:12px;font-weight:550;margin:19px 0}@media(max-width:760px){.select-field{font-size:13px}}
+.school-picker{width:100%}.school-picker .apple-select{width:100%}.apple-select.hero .apple-select-trigger{max-width:none}.school-hero .hero-content{width:min(100%,460px)}@media(max-width:760px){.school-hero .hero-content{width:100%}.apple-select.hero .apple-select-trigger{font-size:23px}}

diff --git a/tests/select.spec.ts b/tests/select.spec.ts
@@ -1,0 +1,12 @@
+import {test,expect} from '@playwright/test'
+import AxeBuilder from '@axe-core/playwright'
+test('Apple selectors support keyboard, dismiss and touch inside a dialog',async({page})=>{
+ await page.goto('/');const school=page.getByRole('combobox',{name:'Chọn trường'});await school.focus();await school.press('ArrowDown');await expect(page.getByRole('listbox',{name:'Chọn trường'})).toBeVisible();await school.press('ArrowDown');await school.press('Enter');await expect(school).toContainText('Mầm non Bình An');await expect(page.locator('.stat-value').first()).toContainText('216');await school.click();await school.press('ArrowDown');await school.press('Escape');await expect(school).toContainText('Mầm non Bình An');await expect(page.getByRole('listbox')).toHaveCount(0)
+ await page.setViewportSize({width:390,height:844});await page.getByRole('button',{name:'Góp ý thực đơn',exact:false}).click();const kind=page.getByRole('combobox',{name:'Loại ý kiến'});await kind.click();await page.getByRole('option',{name:'Phản ánh chất lượng bữa ăn',exact:true}).click();await expect(kind).toContainText('Phản ánh chất lượng bữa ăn');await page.getByRole('textbox',{name:'Nội dung'}).fill('Nội dung minh họa kiểm tra bộ chọn mới.');await page.getByRole('button',{name:'Gửi ý kiến',exact:true}).click();await expect(page.getByRole('heading',{name:'Đã ghi nhận ý kiến của bạn'})).toBeVisible()
+})
+test('open selectors remain within mobile viewport and accessible',async({page})=>{
+ await page.setViewportSize({width:375,height:812});await page.goto('/');await page.getByRole('combobox',{name:'Chọn trường'}).click();const list=page.getByRole('listbox',{name:'Chọn trường'});await expect(list).toBeVisible();await expect.poll(async()=>{const b=await list.boundingBox();return b!.x>=0&&b!.y>=0&&b!.x+b!.width<=375&&b!.y+b!.height<=812}).toBe(true);const results=await new AxeBuilder({page}).withTags(['wcag2a','wcag2aa']).analyze();expect(results.violations.map(v=>({id:v.id,nodes:v.nodes.map(n=>n.target)}))).toEqual([]);await page.screenshot({path:'docs/screenshots/apple-select-mobile.png'})
+})
+test('administration status selector filters the source table',async({page})=>{
+ await page.goto('/');await page.getByRole('button',{name:'Chuyển không gian làm việc'}).click();await page.getByRole('button',{name:'Phòng Văn hóa – Xã hội',exact:true}).click();await page.getByRole('combobox',{name:'Lọc trạng thái suất ăn'}).click();await page.getByRole('option',{name:'Sẵn sàng phục vụ',exact:true}).click();await expect(page.getByText('Không có kết quả phù hợp')).toBeVisible();await page.getByRole('combobox',{name:'Lọc trạng thái suất ăn'}).click();await page.getByRole('option',{name:'Tất cả trạng thái',exact:true}).click();await expect(page.locator('tbody tr')).toHaveCount(3)
+})

diff --git a/tests/parent.spec.ts b/tests/parent.spec.ts
@@ -2,7 +2,7 @@
 import AxeBuilder from '@axe-core/playwright'
 test('parent journey, school/date changes and private demo feedback',async({page})=>{
  await page.goto('/');await expect(page.getByRole('heading',{name:'Bữa ăn của con, an tâm của bạn.'})).toBeVisible()
- await page.getByRole('combobox',{name:'Chọn trường'}).selectOption('binh-an');await expect(page.locator('.stat-value').first()).toContainText('216');await expect(page.getByText('Nấu tại trường',{exact:true})).toBeVisible()
+ await page.getByRole('combobox',{name:'Chọn trường'}).click();await page.getByRole('option',{name:/Mầm non Bình An/}).click();await expect(page.locator('.stat-value').first()).toContainText('216');await expect(page.getByText('Nấu tại trường',{exact:true})).toBeVisible()
  await page.getByRole('button',{name:'Góp ý thực đơn',exact:false}).click();await page.getByRole('textbox',{name:'Nội dung'}).fill('Mong nhà trường bổ sung thêm các món rau củ theo mùa.');await page.getByRole('button',{name:'Gửi ý kiến',exact:true}).click();await expect(page.getByText('Đã lưu vào trình duyệt DEMO, chưa gửi đến nhà trường.')).toBeVisible();await page.getByRole('button',{name:'Hoàn tất'}).click()
  await page.getByRole('link',{name:'Phản ánh & góp ý',exact:true}).click();await expect(page.getByText('Mong nhà trường bổ sung thêm các món rau củ theo mùa.')).toBeVisible();await page.reload();await expect(page.getByText('Mong nhà trường bổ sung thêm các món rau củ theo mùa.')).toBeVisible()
 })

diff --git a/vite.config.ts b/vite.config.ts
@@ -2,3 +2,4 @@
 import tailwindcss from '@tailwindcss/vite'
 import { defineConfig } from 'vite'
 export default defineConfig({plugins:[react(),tailwindcss()],server:{host:'0.0.0.0'}})
+// Frontend-only development configuration.

diff --git a/docs/QA_REPORT.md b/docs/QA_REPORT.md
@@ -55,3 +55,8 @@ Theo yêu cầu mới, popup mobile (tài khoản, form, ngày, chi tiết, ản
 
 ## Sửa lỗi popup lô nguyên liệu ở góc trái trên
 Đã tái hiện desktop 1440px: dialog có x=0, y=0 và margin=0 do reset CSS. Bản sửa trước chỉ căn giữa trong media query mobile. Đã đặt `position: fixed; inset: 0; margin: auto` vào quy tắc dialog chung trong `src/App.css`. Kiểm thử hồi quy đúng popup “Thông tin lô nguyên liệu DEMO” trên 390/768/1440px kiểm tra tâm ngang/dọc và nút đóng. Build đạt.
+
+## Bộ chọn theo phong cách Apple
+Thay cả ba select (trường, loại ý kiến, trạng thái suất ăn) bằng `src/components/ui/Select.tsx` và `Select.css`. Menu bo góc, viền mảnh, dấu tích, mô tả phụ, active highlight theo bảng màu và dark mode. Dùng native Popover top layer để không bị hero/card/dialog cắt menu; tự tính vị trí và giới hạn theo viewport. Runtime chưa hỗ trợ Popover dùng select native đã style.
+
+Có combobox/listbox semantics, phím mũi tên/Home/End, Enter/Space, Escape, Tab, tìm bằng gõ ký tự, click ngoài để đóng; tích hợp React Hook Form bằng Controller. Không thay dữ liệu hoặc backend. Đã kiểm tra chọn mục trong dialog, đổi trường/counter, lọc danh sách, menu ở viewport 375px và axe khi menu mở. Bổ sung `tests/select.spec.ts`, cập nhật kiểm thử chọn trường hiện có. Sửa role của loading state để hỗ trợ nhãn accessible.
